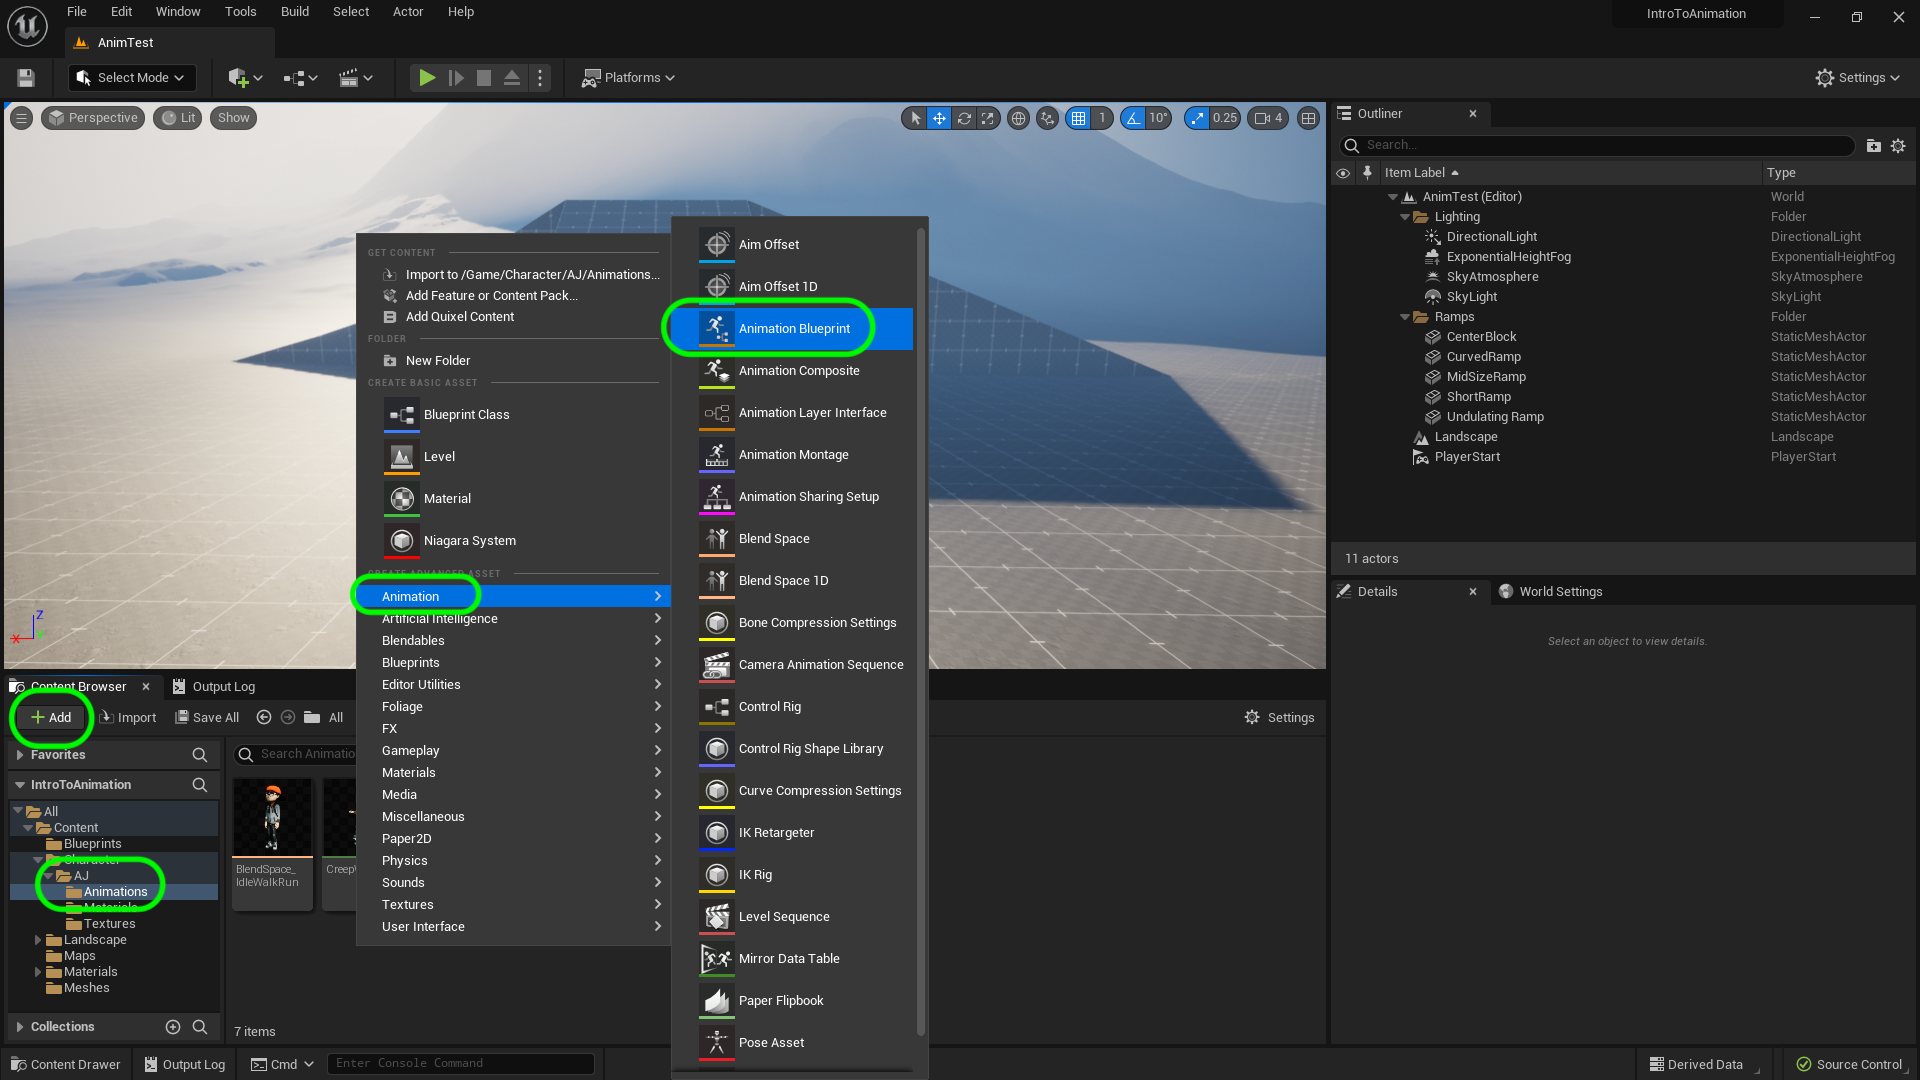
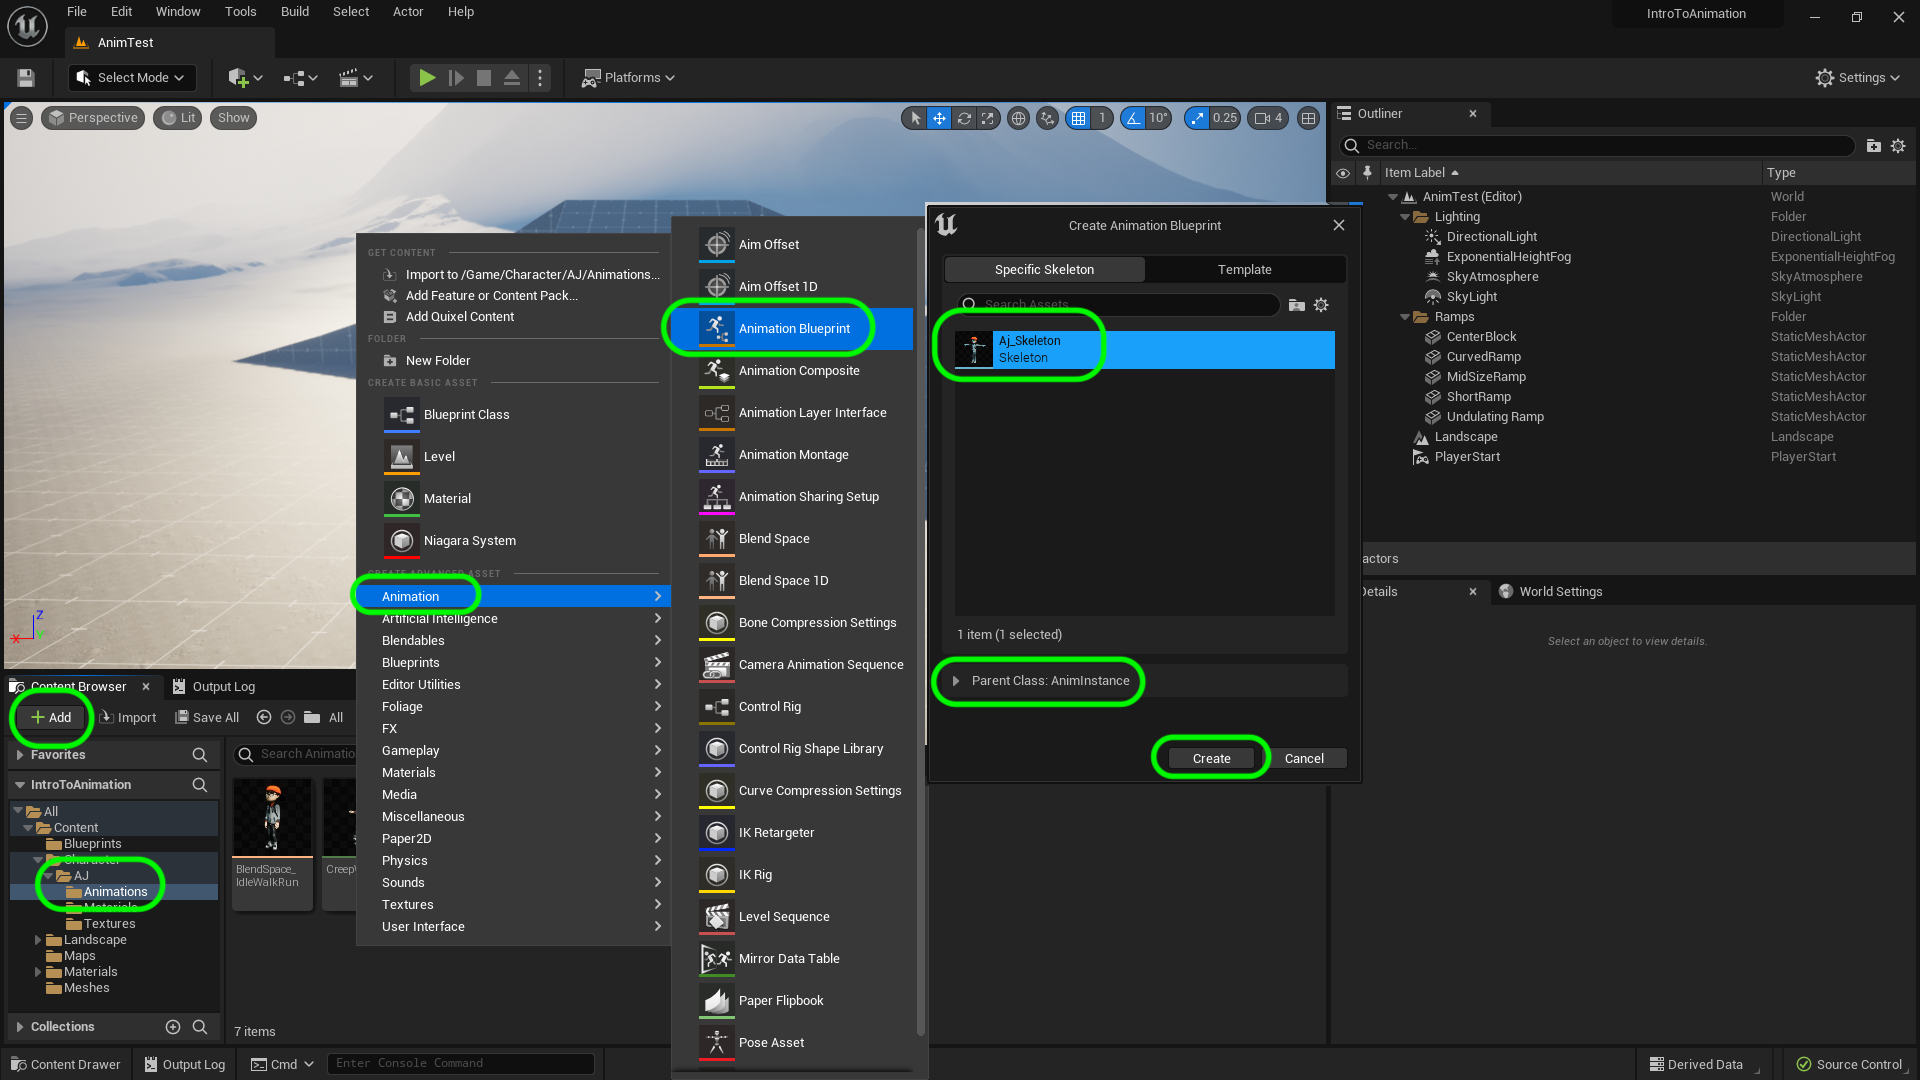
updating animtaion to ue5

Changed region(s): [[0.4688, 0.1833, 0.7188, 0.7333]]

diff --git a/anim-bp/README.md b/anim-bp/README.md
@@ -15,7 +15,7 @@ There is a special kind of blueprint used as a state machine for animations. It 
 
 ##### `Step 1.`\|`ITA`|:small_blue_diamond:
 
-We are now going to start to set up a state machine for our character. Go to the **AJ** folder and *press* the <kbd>Add/Import</kbd> button and *select* **Animation | Animation Blueprint**. Make sure it is of type **AnimInstance**. Press the <kbd>OK</kbd> button.
+We are now going to start to set up a state machine for our character. Go to the **AJ** folder and *press* the <kbd>Add/Import</kbd> button and *select* **Animation | Animation Blueprint**. Make sure it is of type **AnimInstance** and the correct skeleton is selected. Press the <kbd>Create</kbd> button.
 
 ![add animation blueprint to aj folder](images/AddNewAnimationBlueprint.png)
 
